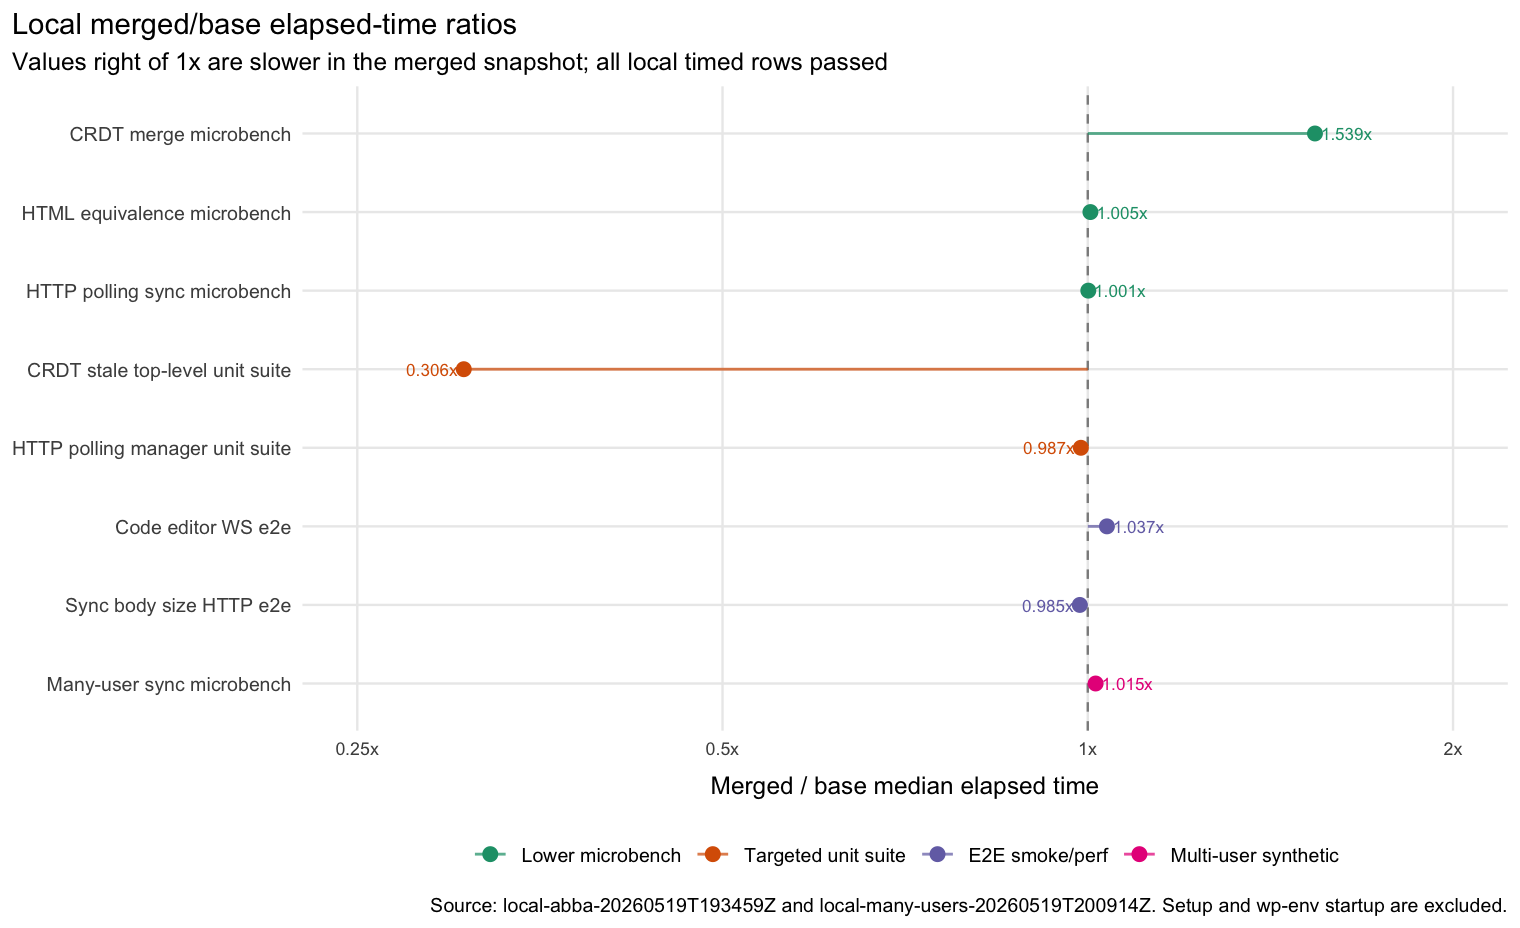
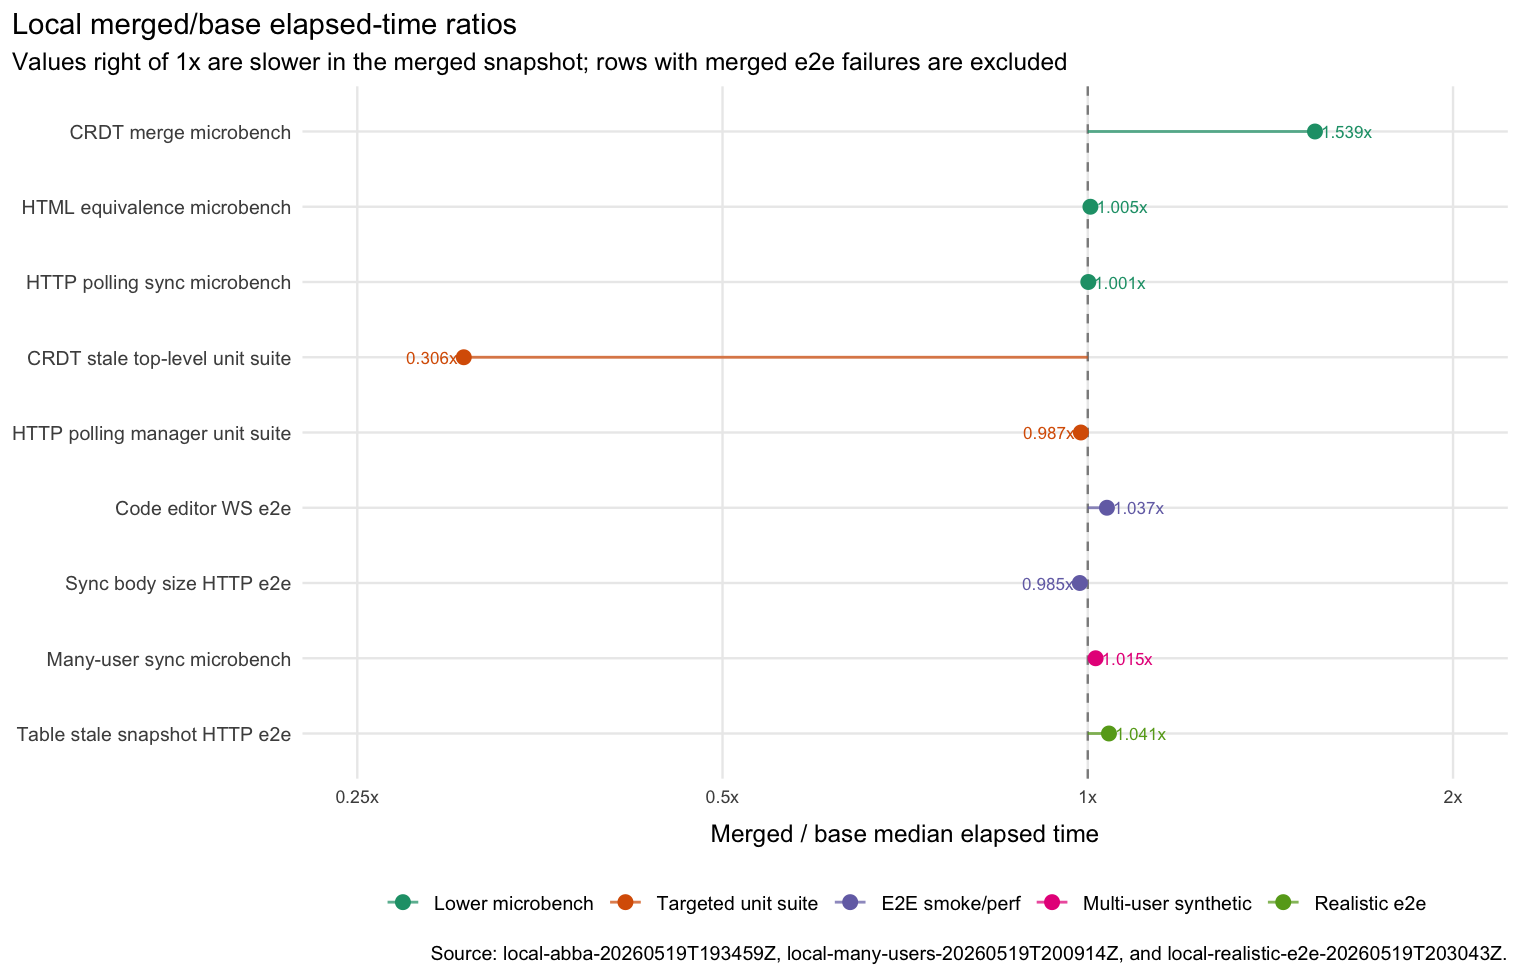
Add realistic RTC e2e benchmark results

diff --git a/docs/explanations/architecture/rtc-local-benchmark-results-20260519.md b/docs/explanations/architecture/rtc-local-benchmark-results-20260519.md
@@ -1,6 +1,6 @@
 # RTC Local Benchmark Results, 2026-05-19
 
-This follows `rtc-less-busy-benchmark-handoff-20260519.md`, but the local run uses a cleaner runner structure instead of preserving the earlier remote-run ordering. The local runner used balanced ABBA ordering for lower-level, e2e, and many-user rows and fixed host-specific wp-env behavior on macOS.
+This follows `rtc-less-busy-benchmark-handoff-20260519.md`, but the local run uses a cleaner runner structure instead of preserving the earlier remote-run ordering. The local runner used balanced ABBA ordering for lower-level, e2e, many-user, and realistic e2e rows and fixed host-specific wp-env behavior on macOS.
 
 ## Inputs
 
@@ -15,7 +15,7 @@ Local setup excluded from timed rows: bundle fetch/clone, `npm install`, `compos
 
 ## Benchmark Meanings
 
-The timed rows use four levels:
+The timed rows use five levels:
 
 | row | what it measures |
 | --- | --- |
@@ -27,6 +27,9 @@ The timed rows use four levels:
 | `e2e / collaboration-code-editor-performance-ws` | Playwright e2e coverage for the collaboration code-editor performance path using the WebSocket sync server. This includes browser, editor, WordPress, and test harness work. |
 | `e2e / collaboration-sync-body-size-http` | Playwright e2e coverage for collaboration sync request body size using the HTTP polling path. This catches payload growth and sync-body behavior in the browser/editor stack. |
 | `multi-user / many-users-sync` | A Jest-hosted synthetic many-user sync benchmark for 100-user payloads, 100-user update queues, and a 1000-room polling window. This isolates client-side sync fan-out work and excludes browser, wp-env, and e2e setup. |
+| `realistic-e2e / large-post-three-user-http` | Playwright e2e coverage for the existing large-post collaboration stress flow over HTTP polling: three browser users edit a roughly 5000-word mixed-block post, save, refresh, move blocks, type concurrently, and publish. |
+| `realistic-e2e / list-item-move-refresh-http` | Playwright e2e coverage for the existing two-user list-item movement flow over HTTP polling, including concurrent moves, save, and both users refreshing into the moved order. |
+| `realistic-e2e / table-stale-snapshot-http` | Playwright e2e coverage for existing stale table snapshot flows over HTTP polling: stale HTML edit versus remote row insert, and stale row append versus another user's cell edit. |
 
 The raw microbenchmark scenarios mean:
 
@@ -55,12 +58,14 @@ Run ids:
 
 - Main lower/unit/e2e run: `local-abba-20260519T193459Z`
 - Many-user sync run: `local-many-users-20260519T200914Z`
+- Realistic e2e run: `local-realistic-e2e-20260519T203043Z`
 
 Local artifact root:
 
 ```text
 /Users/danluu/dev/fuzz/rtc-benchmark-20260519-local.noindex/results/local-abba-20260519T193459Z
 /Users/danluu/dev/fuzz/rtc-benchmark-20260519-local.noindex/results/local-many-users-20260519T200914Z
+/Users/danluu/dev/fuzz/rtc-benchmark-20260519-local.noindex/results/local-realistic-e2e-20260519T203043Z
 ```
 
 Host and runner notes:
@@ -70,11 +75,13 @@ Host and runner notes:
 - Lower-level order: base rep 1, merged rep 1, merged rep 2, base rep 2.
 - E2E order: base rep 1, merged rep 1, merged rep 2, base rep 2, after prestarting both isolated wp-env instances.
 - Many-user order: base rep 1, merged rep 1, merged rep 2, base rep 2.
+- Realistic e2e order: base rep 1, merged rep 1, merged rep 2, base rep 2, after prestarting both isolated wp-env instances.
 - Local wp-env needed `WP_BASE_URL=http://localhost:<port>`; `127.0.0.1` caused login/REST auth churn on this machine. The WebSocket server stayed on `127.0.0.1`.
 - `RTC_BENCH_LOAD_GATE=off`; macOS load average did not settle because of unrelated background indexing/media work. Per-row load samples were still recorded. Local 1-minute load samples ranged from 16.82 to 31.59, mean 23.39.
 - The many-user run's 1-minute load samples ranged from 8.59 to 19.29, mean 16.24.
+- The realistic e2e run's 1-minute load samples ranged from 21.08 to 36.45, mean 27.55.
 
-All 32 local timed rows exited zero.
+The original lower/unit/e2e run and the many-user run exited zero for all 32 timed rows. The realistic e2e run added 12 timed rows: 8 exited zero and 4 failed, all in the merged snapshot's stress flows.
 
 | kind | case | base failures/reps | merged failures/reps | base median s | merged median s | merged/base |
 | --- | --- | ---: | ---: | ---: | ---: | ---: |
@@ -86,6 +93,9 @@ All 32 local timed rows exited zero.
 | e2e | collaboration-code-editor-performance-ws | 0/2 | 0/2 | 9.77 | 10.13 | 1.037 |
 | e2e | collaboration-sync-body-size-http | 0/2 | 0/2 | 15.99 | 15.74 | 0.985 |
 | multi-user | many-users-sync | 0/2 | 0/2 | 7.90 | 8.01 | 1.015 |
+| realistic-e2e | large-post-three-user-http | 0/2 | 2/2 | 31.59 | 108.19 | n/a, merged failed |
+| realistic-e2e | list-item-move-refresh-http | 0/2 | 2/2 | 23.52 | 82.05 | n/a, merged failed |
+| realistic-e2e | table-stale-snapshot-http | 0/2 | 0/2 | 25.33 | 26.38 | 1.041 |
 
 Local CRDT microbench p50 ratios:
 
@@ -107,6 +117,14 @@ Local many-user sync microbench p50 ratios:
 | queue_take_restore_100_users_100_updates_each | 0.040041 | 0.037042 | 0.925 | 0.075438 | 0.065458 | 0.868 |
 | rotate_window_1000_rooms_10_slots | 0.002042 | 0.002042 | 1.000 | 0.003604 | 0.003771 | 1.046 |
 
+Realistic e2e failure signatures:
+
+| row | base result | merged result | observed merged failure |
+| --- | ---: | ---: | --- |
+| large-post-three-user-http | 0/2 failures | 2/2 failures | Both merged reps timed out waiting for every participant to observe the final concurrent paragraphs from the other users in `collaboration-stress.spec.ts`. |
+| list-item-move-refresh-http | 0/2 failures | 2/2 failures | Both merged reps timed out waiting for the moved list order; the assertion expected `Item Beta` after `Item Gamma`, but saw the old order. |
+| table-stale-snapshot-http | 0/2 failures | 0/2 failures | No failure; this is the only all-pass realistic e2e ratio row. |
+
 ## Graphs
 
 The plotted data and generator are checked in under `docs/explanations/architecture/rtc-local-benchmark-results-20260519/`. The graphs use `ggplot2` with ColorBrewer scales and the minimal RTC report style used by the existing benchmark trend plots.
@@ -117,8 +135,12 @@ The plotted data and generator are checked in under `docs/explanations/architect
 
 ![Many-user sync microbench p50 ratios](rtc-local-benchmark-results-20260519/plots/many-user-sync-p50-ratios.png)
 
+![Realistic e2e status ratios](rtc-local-benchmark-results-20260519/plots/realistic-e2e-status-ratios.png)
+
 ## Readout
 
-The local run is the cleanest run for end-to-end correctness and timing because it used balanced ABBA order and all rows passed. It shows no meaningful e2e regression: WS e2e was +3.7% and HTTP e2e was -1.5% for merged versus base. The synthetic CRDT stale/suffix scenarios are consistently slower in the merged snapshot, around 1.8x to 3.4x by p50 depending on scenario.
+The local lower/unit/e2e and many-user runs are clean timing runs because they used balanced ABBA order and all rows passed. They show no meaningful smoke e2e regression: WS e2e was +3.7% and HTTP e2e was -1.5% for merged versus base. The synthetic CRDT stale/suffix scenarios are consistently slower in the merged snapshot, around 1.8x to 3.4x by p50 depending on scenario.
 
 HTML-equivalence and HTTP-polling microbenches were effectively neutral. The many-user sync benchmark was also near neutral overall: the aggregate elapsed-time ratio was 1.015x, p50 ratios ranged from 0.925x to 1.079x, awareness apply was 0.999x, and 1000-room window rotation was 1.000x.
+
+The realistic e2e addition changes the correctness picture: base passed all six stress-flow commands, but merged failed both reps of the 3-user large-post flow and both reps of the list-item move/refresh flow. The failed rows' elapsed medians include Playwright retries, so they should be read as repeated e2e failures rather than clean performance ratios. The realistic table stale-snapshot row passed on both branches, with merged/base at 1.041x.
